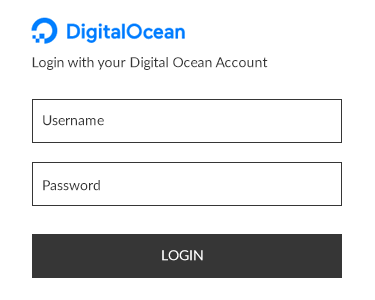
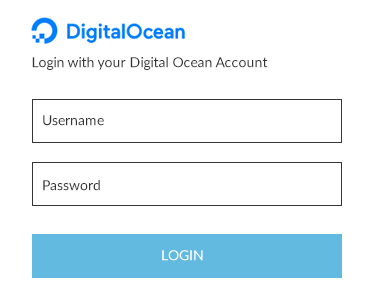
updated font styles and styles for main-nav

Changed region(s): [[0.088, 0.78, 0.9093, 0.93]]

diff --git a/interior-server-detail.html b/interior-server-detail.html
@@ -11,12 +11,12 @@
     <link rel="stylesheet" href="css/style.css">
     </head>
     <body>
-        <!--.mainNav-->
-        <div class="top-bar mainNav">
+        <!--.main-nav-->
+        <div class="top-bar main-nav">
             <div class="row">
                 <div class="top-bar-left">
                     <ul class="menu">
-                        <li class="menu-text">LOGO</li>
+                        <li class="menu-text">BD Monitoring</li>
                     </ul>
                 </div>
                 <div class="top-bar-right">
@@ -28,7 +28,7 @@
                 </div>
             </div>
         </div>
-        <!--end .mainNav-->
+        <!--end .main-nav-->
         <div class="sticky-container">
             <div class="row content">
                 <div class="large-4 columns">
@@ -37,7 +37,7 @@
                         <tbody>
                             <thead>
                             <tr>
-                                <th colspan="2">server.name</th>
+                                <th colspan="2" class="sub-text">server.name</th>
                             </tr>
                             </thead>
                             <tr>
@@ -185,7 +185,7 @@
             </div>
         </div><!--end sticky-container-->
         <!--.main-footer-->
-        <footer class="main-footer">
+        <footer class="main-footer content">
             <div class="top-bar">
                 <div class="row">
                     <div class="column text-center">

diff --git a/css/style.css b/css/style.css
@@ -4,39 +4,61 @@
   max-width: 62.5rem;
 }
 
-ul,
-li {
-    list-style: none;
-}
-
-a {
-    text-decoration: none;
-}
-
-h1 {
-    font-family: 'Source Sans Pro', sans-serif;
-    font-weight: bold;
-    font-size: 1.25rem;
-    color: #6497B1;
-}
-
 h2,
 h3,
 h4,
 h5,
 h6,
 p,
+li,
+span,
 a {
     font-family: 'Lato' , sans-serif;
+    color: #363636;
+}
+
+h1 {
+    font-family: 'Source Sans Pro', sans-serif;
+    font-weight: bold;
+    line-height: 1.2;
+    color: #6497B1;
 }
 
 h2 {
-    font-size: 1.125rem;
     color: #62bae0;
+}
+
+ul,
+li {
+    list-style: none;
 }
 
 p {
     font-size: 1rem;
+}
+
+a {
+    text-decoration: none;
+}
+
+a:link {
+    color: #363636;
+}
+
+a:hover {
+    color:#6497b1;
+    text-decoration: underline;
+}
+
+.menu-text {
+    font-familY: 'Source Sans Pro', sans-serif;
+    font-size: 1.125rem;
+    font-weight: bold;
+    color: #363636;
+    line-height: 1;
+    padding-top: 0;
+    padding-bottom: 0;
+    padding: 0.7rem 1rem;
 }
 
 .content {
@@ -51,9 +73,29 @@ p {
     min-height: calc(100vh - 57px);
 }
 
+.top-bar,
+.top-bar ul {
+    background-color: #b3cde0;
+}
+
+.sub-nav .menu li {
+    padding-right: 20px;
+}
+
+.main-footer p {
+    padding: 20px 0;
+    margin-bottom: 20px;
+}
+
 .full-width {
     max-width: 100%;
 }
+
+.sub-text {
+    color: #62bae0;
+    line-height: 1.3;
+}
+
 
 @media screen and (min-width: 64em){
 .large-10 

diff --git a/interior-alert-details.html b/interior-alert-details.html
@@ -11,12 +11,12 @@
     <link rel="stylesheet" href="css/style.css">
     </head>
     <body>
-        <!--end .mainNav-->
-        <div class="top-bar mainNav">
+        <!--end .main-nav-->
+        <div class="top-bar main-nav">
             <div class="row">
                 <div class="top-bar-left">
                     <ul class="menu">
-                        <li class="menu-text">LOGO</li>
+                        <li class="menu-text">BD Monitoring</li>
                     </ul>
                 </div>
                 <div class="top-bar-right">
@@ -28,12 +28,12 @@
                 </div>
             </div>
         </div>
-        <!--end .mainNav-->
+        <!--end .main-nav-->
         <div class="sticky-container">
             <div class="row content">
                 <div class="large-12 columns">
                     <h3>Alert ID</h3>
-                    <p>030e753b583cd92</p>
+                    <p class="sub-text">030e753b583cd92</p>
                 </div>
             </div>
             <!--.sub-nav-->
@@ -84,7 +84,7 @@
             </div>
         </div><!--end sticky-container-->
         <!--.main-footer-->
-        <footer class="main-footer">
+        <footer class="main-footer content">
             <div class="top-bar">
                 <div class="row">
                     <div class="column text-center">

diff --git a/interior-sites-details.html b/interior-sites-details.html
@@ -11,12 +11,12 @@
     <link rel="stylesheet" href="css/style.css">
     </head>
     <body>
-        <!--end .mainNav-->
-        <div class="top-bar mainNav">
+        <!--end .main-nav-->
+        <div class="top-bar main-nav">
             <div class="row">
                 <div class="top-bar-left">
                     <ul class="menu">
-                        <li class="menu-text">LOGO</li>
+                        <li class="menu-text">BD Monitoring</li>
                     </ul>
                 </div>
                 <div class="top-bar-right">
@@ -28,12 +28,12 @@
                 </div>
             </div>
         </div>
-        <!--end .mainNav-->
+        <!--end .main-nav-->
         <div class="sticky-container">
             <div class="row content">
                 <div class="large-12 columns">
                     <h3>Site ID</h3>
-                    <p>9f6454f952c3f36</p>
+                    <p class="sub-text">9f6454f952c3f36</p>
                 </div>
             </div>
             <!--.sub-nav-->
@@ -68,7 +68,7 @@
             </div>
         </div><!--end sticky-container-->
         <!--.main-footer-->
-        <footer class="main-footer">
+        <footer class="main-footer content">
             <div class="top-bar">
                 <div class="row">
                     <div class="column text-center">

diff --git a/index.html b/index.html
@@ -11,12 +11,12 @@
     <link rel="stylesheet" href="css/style.css">
     </head>
     <body>
-        <!--.mainNav-->
-        <div class="top-bar mainNav">
+        <!--.main-nav-->
+        <div class="top-bar main-nav">
             <div class="row">
                 <div class="top-bar-left">
                     <ul class="menu">
-                        <li class="menu-text">LOGO</li>
+                        <li class="menu-text">BD Monitoring</li>
                     </ul>
                 </div>
                 <div class="top-bar-right">
@@ -28,7 +28,7 @@
                 </div>
             </div><!--end row-->
         </div>
-        <!--end .mainNav-->
+        <!--end .main-nav-->
         <div class="sticky-container">
             <div class="row content">
                 <div class="large-8 columns">
@@ -45,7 +45,7 @@
             </div>
         </div>
         <!--.main-footer-->
-        <footer class="main-footer">
+        <footer class="main-footer content">
             <div class="top-bar">
                 <div class="row">
                     <div class="column text-center">
